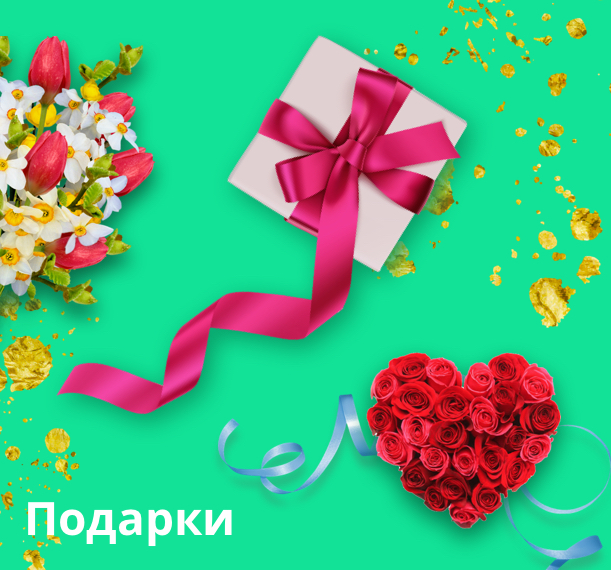
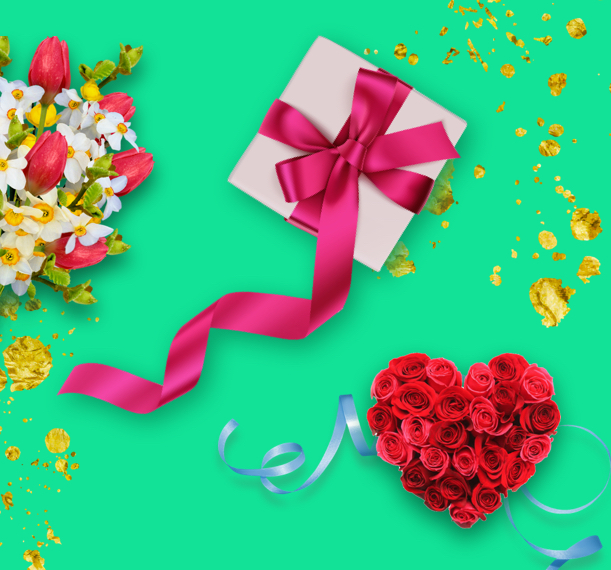
promo-cards

Changed region(s): [[0.0311, 0.8649, 0.4043, 0.9544]]

diff --git a/src/blocks/shop/promo-card/_promo-card.scss b/src/blocks/shop/promo-card/_promo-card.scss
@@ -1,19 +1,158 @@
 .promo-card {
   display: block;
-  margin-bottom: rem-cac(23);
+  position: relative;
+  margin-bottom: rem-calc(23);
   background-size: cover;
   background-repeat: no-repeat;
   background-position: center;
+  overflow: hidden;
+
+  &:hover,
+  &:focus,
+  &:active {
+    .promo-card__button {
+      bottom: rem-calc(10);
+
+      @include breakpoint(small down) {
+        bottom: rem-calc(5);
+      }
+    }
+  }
 
   &_large {
     min-height: rem-calc(570);
+
+    @include breakpoint(large down) {
+      min-height: rem-calc(440);
+    }
+
+    @include breakpoint(medium down) {
+      min-height: rem-calc(335);
+    }
+
+    @include breakpoint(small down) {
+      min-height: rem-calc(275);
+    }
+
+    .promo-card__title {
+      font-size: rem-calc(46);
+
+      @include breakpoint(large down) {
+        font-size: rem-calc(40);
+      }
+
+      @include breakpoint(medium down) {
+        font-size: rem-calc(24);
+      }
+    }
   }
 
   &_medium {
     min-height: rem-calc(270);
+
+    @include breakpoint(large down) {
+      min-height: rem-calc(207);
+    }
+
+    @include breakpoint(medium down) {
+      min-height: rem-calc(155);
+    }
+
+    @include breakpoint(small down) {
+      min-height: rem-calc(132);
+    }
+
+    .promo-card__title {
+      font-size: rem-calc(46);
+      text-align: center;
+
+      @include breakpoint(large down) {
+        font-size: rem-calc(40);
+      }
+
+      @include breakpoint(medium down) {
+        font-size: rem-calc(24);
+      }
+    }
   }
 
   &_small {
     min-height: rem-calc(275);
+
+    @include breakpoint(large down) {
+      min-height: rem-calc(210);
+    }
+
+    @include breakpoint(medium down) {
+      min-height: rem-calc(158);
+    }
+
+    @include breakpoint(small down) {
+      min-height: rem-calc(134);
+    }
+  }
+
+  &__title {
+    position: absolute;
+    top: 50%;
+    left: 50%;
+    transform: translate(-50%, -50%);
+    font-size: rem-calc(24);
+    font-weight: 700;
+    color: $white;
+
+    @include breakpoint(medium down) {
+      font-size: rem-calc(18);
+    }
+
+    @include breakpoint(small down) {
+      font-size: rem-calc(14);
+    }
+
+    &_bottom {
+      top: auto;
+      left: rem-calc(24);
+      bottom: rem-calc(22);
+      transform: none;
+
+      @include breakpoint(large down) {
+        bottom: rem-calc(19);
+      }
+
+      @include breakpoint(medium down) {
+        bottom: rem-calc(12);
+      }
+
+      @include breakpoint(small down) {
+        bottom: rem-calc(5);
+      }
+    }
+
+    &_top {
+      top: rem-calc(6);
+      left: rem-calc(18);
+      bottom: auto;
+      transform: none;
+    }
+  }
+
+  &__button {
+    position: absolute;
+    right: rem-calc(15);
+    bottom: rem-calc(-70);
+    font-size: rem-calc(50);
+    transition: 0.3s ease;
+
+    @include breakpoint(large down) {
+      font-size: rem-calc(40);
+    }
+
+    @include breakpoint(medium down) {
+      font-size: rem-calc(30);
+    }
+
+    @include breakpoint(small down) {
+      font-size: rem-calc(25);
+    }
   }
 }

diff --git a/src/blocks/general/slick/slick-theme.scss b/src/blocks/general/slick/slick-theme.scss
@@ -101,7 +101,9 @@ $slick-dot-color-active: rgba(0, 0, 0, 0.2) !default;
 .slick-dots {
   margin: 2rem 0;
   list-style: none;
-  display: block;
+  display: flex;
+  justify-content: center;
+  align-items: center;
   text-align: center;
   padding: 0;
   width: 100%;
@@ -115,8 +117,8 @@ $slick-dot-color-active: rgba(0, 0, 0, 0.2) !default;
       border: 0;
       background: $slick-dot-color;
       display: block;
-      height: rem-calc(10);
-      width: rem-calc(10);
+      height: rem-calc(6);
+      width: rem-calc(6);
       outline: none;
       line-height: 0;
       font-size: 0;
@@ -131,8 +133,11 @@ $slick-dot-color-active: rgba(0, 0, 0, 0.2) !default;
         outline: none;
       }
     }
+
     &.slick-active button {
       background: $slick-dot-color-active;
+      height: rem-calc(11);
+      width: rem-calc(11);
     }
   }
 }
